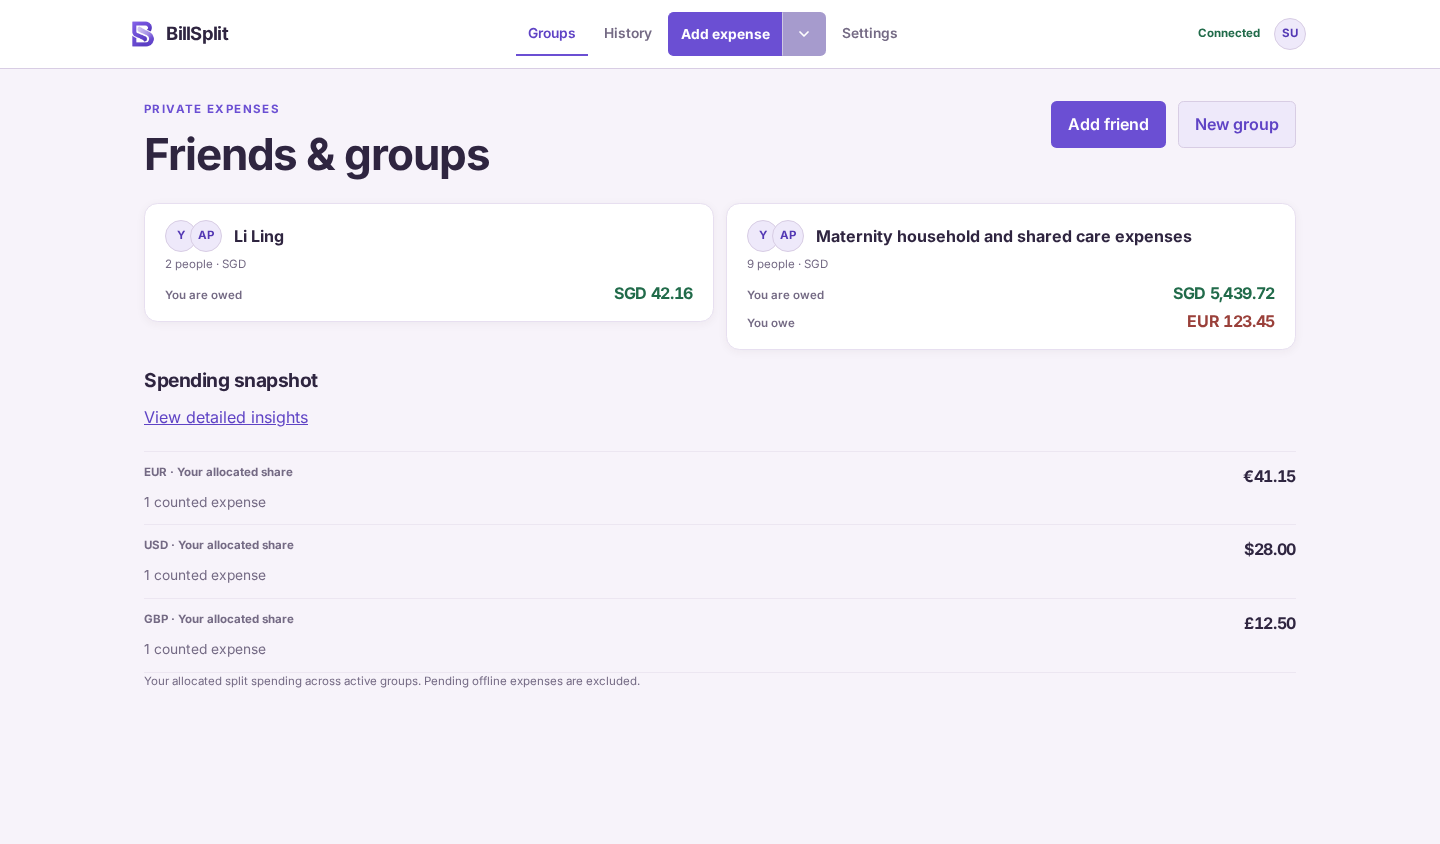
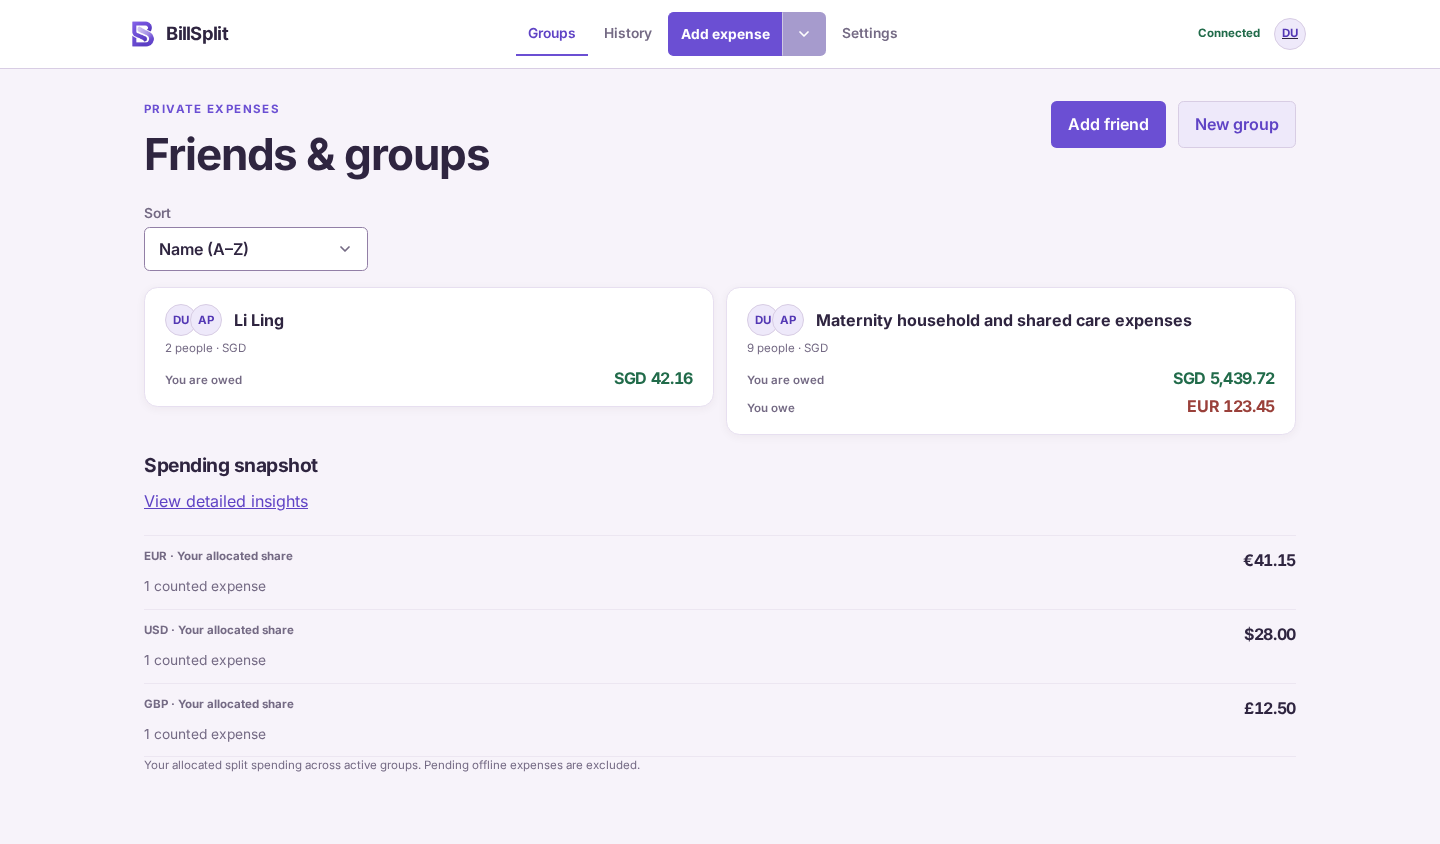
Add alphabetical and outstanding Home sorting

diff --git a/tests/e2e/home-insights-surfaces.spec.ts b/tests/e2e/home-insights-surfaces.spec.ts
@@ -1,10 +1,21 @@
-import { test, expect, newAuthenticatedContext, BASE_URL, DEV_EMAIL } from './fixtures';
+import path from 'node:path';
+import type { Page, TestInfo } from '@playwright/test';
+import { test, expect, newAuthenticatedContext, seedOfflineTrust, BASE_URL, DEV_EMAIL } from './fixtures';
+
+async function captureHome(page: Page, testInfo: TestInfo, name: string) {
+  await page.evaluate(() => document.fonts.ready);
+  const destination = process.env.UPDATE_HOME_SCREENSHOTS === '1'
+    ? path.join(process.cwd(), 'docs', 'screenshots', `${name}.png`)
+    : testInfo.outputPath(`${name}.png`);
+  await page.screenshot({ path: destination, fullPage: true, animations: 'disabled', style: '.bottom-nav { visibility: hidden !important; }' });
+  await testInfo.attach(name, { path: destination, contentType: 'image/png' });
+}
 
 const shortId = '00000000-0000-4000-8000-000000003001';
 const longId = '00000000-0000-4000-8000-000000003003';
 const insightsId = '00000000-0000-4000-8000-000000003002';
 
-test('Home cards retain compact, accessible balance geometry across the navigation boundary', async ({ browser }) => {
+test('Home cards retain compact, accessible balance geometry across the navigation boundary', async ({ browser }, testInfo) => {
   for (const width of [320, 390, 768, 895, 896, 1440]) {
     const context = await newAuthenticatedContext(browser, DEV_EMAIL, { width, height: 844 }, { serviceWorkers: 'block' });
     try {
@@ -72,9 +83,80 @@ test('Home cards retain compact, accessible balance geometry across the navigati
       expect(geometry.actions).toEqual(['/friends/new', '/groups/new']);
       expect(geometry.nav.mobile === 'none').toBe(width >= 896);
       expect(geometry.nav.desktop === 'none').toBe(width < 896);
+      const sort = page.getByRole('combobox', { name: 'Sort', exact: true });
+      await expect(sort).toHaveValue('name');
+      expect(await page.locator('.home-actions').evaluate((actions) => Boolean(actions.compareDocumentPosition(document.querySelector('.home-sort')!) & Node.DOCUMENT_POSITION_FOLLOWING))).toBe(true);
+      const device = width === 390 ? 'mobile' : width === 1440 ? 'desktop' : undefined;
+      if (device) await captureHome(page, testInfo, `home-sgd-stress-${device}`);
+      await sort.selectOption('outstanding');
+      await expect(cards.first()).toHaveAttribute('href', `/groups/${longId}`);
+      await expect(page.locator('#home-sort-help')).toBeVisible();
+      expect(await page.evaluate(() => document.documentElement.scrollWidth <= document.documentElement.clientWidth)).toBe(true);
+      if (device) await captureHome(page, testInfo, `home-outstanding-${device}`);
+      await page.reload();
+      await expect(sort).toHaveValue('outstanding');
+      await expect(cards.first()).toHaveAttribute('href', `/groups/${longId}`);
+      await page.unroute('**/api/groups');
+      await page.route('**/api/groups', (route) => route.fulfill({ status: 503, contentType: 'application/json', body: JSON.stringify({ error: 'Unavailable' }) }));
+      await page.reload();
+      await expect(sort).toHaveValue('outstanding');
+      await expect(cards.first()).toHaveAttribute('href', `/groups/${longId}`);
+      await seedOfflineTrust(page);
+      await context.setOffline(true);
+      await page.evaluate(() => window.dispatchEvent(new Event('offline')));
+      await expect(sort).toHaveValue('outstanding');
+      await expect(cards.first()).toHaveAttribute('href', `/groups/${longId}`);
+      await sort.selectOption('name');
+      await expect(cards.first()).toHaveAttribute('href', `/groups/${shortId}`);
+      await expect(page.locator('#home-sort-help')).toHaveCount(0);
     } finally {
       await context.close();
     }
+  }
+});
+
+for (const [device, width] of [['mobile', 390], ['desktop', 1440]] as const) {
+  test(`Home reference screenshots at ${device} size`, async ({ authenticatedPage: page }, testInfo) => {
+    await page.setViewportSize({ width, height: device === 'mobile' ? 844 : 900 });
+    await page.goto('/');
+    await expect(page.locator('.group-card').first()).toBeVisible();
+    await expect(page.getByRole('combobox', { name: 'Sort', exact: true })).toHaveValue('name');
+    await expect(page.locator('.skeleton')).toHaveCount(0);
+    expect(await page.evaluate(() => document.documentElement.scrollWidth <= document.documentElement.clientWidth)).toBe(true);
+    if (device === 'mobile') await expect(page.locator('.bottom-nav')).toBeVisible();
+    await captureHome(page, testInfo, `home-${device}`);
+  });
+}
+
+test('Home sort is absent during cold loading, empty and uncached error states', async ({ browser }) => {
+  for (const width of [320, 390, 768, 895, 896, 1440]) {
+    const context = await newAuthenticatedContext(browser, DEV_EMAIL, { width, height: 844 }, { serviceWorkers: 'block' });
+    try {
+      const page = await context.newPage();
+      let release!: () => void;
+      const gate = new Promise<void>((resolve) => { release = resolve; });
+      let failed = false;
+      await page.route('**/api/groups', async (route) => {
+        await gate;
+        await route.fulfill({ status: failed ? 503 : 200, contentType: 'application/json', body: JSON.stringify(failed ? { error: 'Unavailable' } : { groups: [] }) });
+      });
+      await page.goto('/');
+      await expect(page.locator('.skeleton').first()).toBeVisible();
+      await expect(page.getByRole('combobox', { name: 'Sort', exact: true })).toHaveCount(0);
+      release();
+      await expect(page.getByText('No groups yet', { exact: true })).toBeVisible();
+      await expect(page.getByRole('combobox', { name: 'Sort', exact: true })).toHaveCount(0);
+      failed = true;
+      // A fresh context avoids a verified empty cache masking the uncached error state.
+      const errorContext = await newAuthenticatedContext(browser, DEV_EMAIL, { width, height: 844 }, { serviceWorkers: 'block' });
+      try {
+        const errorPage = await errorContext.newPage();
+        await errorPage.route('**/api/groups', (route) => route.fulfill({ status: 503, contentType: 'application/json', body: JSON.stringify({ error: 'Unavailable' }) }));
+        await errorPage.goto('/');
+        await expect(errorPage.getByRole('alert').first()).toBeVisible();
+        await expect(errorPage.getByRole('combobox', { name: 'Sort', exact: true })).toHaveCount(0);
+      } finally { await errorContext.close(); }
+    } finally { await context.close(); }
   }
 });
 

diff --git a/src/app/App.tsx b/src/app/App.tsx
@@ -18,6 +18,8 @@ import { broadcastSessionCoordination, captureSessionGeneration, getSessionLogou
 import { browserTimezone, formatScheduleDate, otherTimezoneValue, previewScheduleDates, scheduleContinuationText, scheduleOverviewMetadata, scheduleSummary, timezoneLabel, timezoneOptions, timezoneSelectValue as timezoneSelectValueForState, timezoneValueFromSelection, weekdayLabels } from './scheduled-expense';
 import { categoryOptions } from './categories';
 import { sortOptionsByLabel } from './dropdown-options';
+import { sortHomeGroups, parseHomeSort } from './home-sorting';
+import { useHomeSort } from './use-home-sort';
 import { localDateForTimeZone } from '../domain/recurrence';
 import { appendUniquePage, createPageRequestScope } from './pagination';
 import { assembleCsvPages, collectPagedAccountExport, collectPagedExport, collectPagedGroupExport } from './export';
@@ -290,7 +292,8 @@ function Home() {
    const online = useOnlineStatus();
   const me = useResource(resourceKeys.identity(), '', (signal) => getMe({ signal }), RESOURCE_FRESHNESS.expenses, hydrateIdentity);
   const groupsResource = useResource<{ groups: Group[] }>(resourceKeys.groups(me.data?.id || 'pending'), me.data?.id, (signal) => getGroups(signal), RESOURCE_FRESHNESS.groups, me.data?.id ? () => hydrateGroups(me.data!.id) : undefined);
-  const groups = groupsResource.data?.groups || [];
+  const [homeSort, setHomeSort] = useHomeSort(me.data?.id);
+  const groups = sortHomeGroups(groupsResource.data?.groups || [], homeSort);
   const offline = Boolean(groupsResource.offline || me.offline);
    const [searchParams] = useSearchParams();
   const newGroupRequested = searchParams.get('new') === '1';
@@ -302,6 +305,7 @@ function Home() {
      return <Layout>
        <PageHeader className="page-title" eyebrow="Private expenses" title="Friends & groups" actions={<ActionGroup className="home-actions"><Link className="button" to="/friends/new">Add friend</Link><Link className="button button--secondary" to="/groups/new">New group</Link></ActionGroup>} />
         <PendingInvitations userId={me.data?.id} online={online && !offline} />
+        {groups.length ? <div className="home-sort"><Field label="Sort" className="field--compact"><select value={homeSort} onChange={(event) => setHomeSort(parseHomeSort(event.target.value))} aria-describedby={homeSort === 'outstanding' ? 'home-sort-help' : undefined}><option value="name">Name (A–Z)</option><option value="outstanding">Outstanding first</option></select></Field>{homeSort === 'outstanding' ? <p className="muted" id="home-sort-help">Largest absolute balance first: default currency, otherwise the first non-zero currency alphabetically. Amounts are compared without currency conversion.</p> : null}</div> : null}
        {!online || offline ? <ConnectionBanner detail="showing your last verified groups. Friend and group creation require a connection; Add Expense remains available from cached groups." /> : null}{groupsResource.data !== undefined ? <CachedIdentityNotice resource={me} id="groups-identity-error" /> : null}{groupsResource.data === undefined && me.error ? <ErrorBox error={me.error} onRetry={retryFor(resourceKeys.identity(), '')} id="identity-error" retryLabel="Retry identity check" /> : null}
         {groupsResource.data === undefined && !me.error ? <ResourceNotice resource={groupsResource} label="groups" retry={retryFor(resourceKeys.groups(me.data?.id || 'pending'), me.data?.id)} /> : groupsResource.data !== undefined ? <><ResourceNotice resource={groupsResource} label="groups" retry={retryFor(resourceKeys.groups(me.data?.id || 'pending'), me.data?.id)} />{groups.length ? <div className="cards group-cards">{groups.map((group) => { const people = [{ name: me.data?.name || '', avatarMode: me.data?.avatarMode, avatarHash: me.data?.avatarHash }, ...(group.counterpartName ? [{ name: group.counterpartName, ...group.counterpartAvatar }] : [])]; return <Link className="card group-card ui-card-surface" to={`/groups/${group.id}`} key={group.id}><div className="group-card__identity"><div className="group-card__heading"><AvatarStack people={people} /><strong className="card__name">{groupDisplayName(group)}</strong></div><span className="group-card__meta">{group.memberCount ? `${group.memberCount} ${group.memberCount === 1 ? 'person' : 'people'}` : group.kind === 'peer' ? 'Friend ledger' : 'Shared ledger'} · {group.currency}</span></div><div className="card__balances">{groupBalanceDisplays(group.balanceSummaries, group.currency).map((display, index) => display.kind === 'balance' ? <span className="card__balance" key={`${display.currency}-${index}`}><span className="card__balance-label">{display.label}</span><span className="card__balance-money"><Money amountMinor={display.amountMinor} currency={display.currency} currencyDisplay="code" tone={display.label === 'You are owed' ? 'positive' : 'debt'} /></span></span> : <span className={`card__balance card__balance--${display.kind}`} key={`${display.label}-${index}`}><span className="card__balance-label">{display.label}</span><small>{display.currency}</small></span>)}</div></Link>; })}</div> : <EmptyState title="No groups yet"><p className="empty-state__copy">Start a friend ledger for a quick one-to-one split, or create a shared group for a trip or household.</p><div className="empty-state__actions"><Link className="button" to="/friends/new">Add a friend</Link><Link className="button button--secondary" to="/groups/new">Create a group</Link></div></EmptyState>}</> : null}
        <CompactInsights userId={me.data?.id} global title="Spending snapshot" />

diff --git a/src/app/home-sorting.test.ts b/src/app/home-sorting.test.ts
@@ -1,0 +1,49 @@
+import { afterEach, describe, expect, it, vi } from 'vitest';
+import type { Group } from '../shared/types';
+import { homeSortKey, outstandingBalance, parseHomeSort, readHomeSort, sortHomeGroups, writeHomeSort } from './home-sorting';
+
+const group = (id: string, overrides: Partial<Group> = {}): Group => ({ id, name: id, currency: 'USD', createdAt: '', updatedAt: '', ...overrides });
+afterEach(() => vi.unstubAllGlobals());
+
+describe('Home sorting', () => {
+  it('uses display names, numeric case-insensitive ordering and deterministic IDs without mutation', () => {
+    const source = Object.freeze([group('z', { name: 'room 10' }), group('b', { name: 'ROOM 2' }), group('a', { name: 'Room 2' }), group('peer', { kind: 'peer', counterpartName: 'Alex' })]);
+    expect(sortHomeGroups(source, 'name').map((value) => value.id)).toEqual(['peer', 'a', 'b', 'z']);
+    expect(source.map((value) => value.id)).toEqual(['z', 'b', 'a', 'peer']);
+  });
+
+  it('prefers non-zero default, then alphabetic non-zero fallback across all summaries', () => {
+    const balances = Object.freeze([{ currency: 'USD', netMinor: 0 }, { currency: 'SGD', netMinor: 900 }, { currency: 'HKD', netMinor: 400 }, { currency: 'EUR', netMinor: -200 }]);
+    const candidate = group('a', { balanceSummaries: balances as unknown as Group['balanceSummaries'] });
+    expect(outstandingBalance(candidate)).toEqual({ currency: 'EUR', netMinor: -200 });
+    expect(outstandingBalance({ ...candidate, currency: 'SGD' })).toEqual({ currency: 'SGD', netMinor: 900 });
+    expect(outstandingBalance(group('empty', { balanceSummaries: [] }))).toBeUndefined();
+    expect(outstandingBalance(group('unknown'))).toBeUndefined();
+    expect(outstandingBalance(group('zero', { balanceSummaries: [{ currency: 'USD', netMinor: 0 }] }))).toBeUndefined();
+    expect(balances.map((value) => value.currency)).toEqual(['USD', 'SGD', 'HKD', 'EUR']);
+  });
+
+  it('ranks absolute minor amounts directly across currencies, unknown before settled, with name/id ties', () => {
+    const source = [group('settled', { balanceSummaries: [] }), group('unknown'), group('b', { name: 'Same', balanceSummaries: [{ currency: 'USD', netMinor: 200 }] }), group('a', { name: 'same', currency: 'INR', balanceSummaries: [{ currency: 'INR', netMinor: -200 }] }), group('large', { currency: 'EUR', balanceSummaries: [{ currency: 'EUR', netMinor: -300 }] }), group('zero', { balanceSummaries: [{ currency: 'USD', netMinor: 0 }] })];
+    const before = JSON.stringify(source);
+    expect(sortHomeGroups(source, 'outstanding').map((value) => value.id)).toEqual(['large', 'a', 'b', 'unknown', 'settled', 'zero']);
+    expect(JSON.stringify(source)).toBe(before);
+  });
+
+  it('defaults invalid or unavailable storage and scopes persistence to the internal account ID', () => {
+    const values = new Map<string, string>();
+    vi.stubGlobal('localStorage', { getItem: (key: string) => values.get(key), setItem: (key: string, value: string) => values.set(key, value) });
+    expect(readHomeSort('a')).toBe('name');
+    values.set(homeSortKey('a'), 'invalid');
+    expect(readHomeSort('a')).toBe('name');
+    writeHomeSort('a', 'outstanding');
+    expect(readHomeSort('a')).toBe('outstanding');
+    expect(readHomeSort('b')).toBe('name');
+    expect(parseHomeSort(null)).toBe('name');
+    vi.stubGlobal('localStorage', { getItem() { throw Error('blocked'); }, setItem() { throw Error('quota'); } });
+    expect(readHomeSort('a')).toBe('name');
+    expect(() => writeHomeSort('a', 'outstanding')).not.toThrow();
+    vi.stubGlobal('localStorage', undefined);
+    expect(readHomeSort('a')).toBe('name');
+  });
+});

diff --git a/src/app/home-sorting.ts b/src/app/home-sorting.ts
@@ -1,0 +1,37 @@
+import type { Group } from '../shared/types';
+import { groupDisplayName } from './group-display';
+import { sortOptionsByLabel } from './dropdown-options';
+
+export type HomeSort = 'name' | 'outstanding';
+export const homeSortKey = (userId: string) => `billsplit:home-sort:${userId}`;
+export const parseHomeSort = (value: unknown): HomeSort => value === 'outstanding' ? 'outstanding' : 'name';
+
+export function readHomeSort(userId: string): HomeSort {
+  try { return parseHomeSort(localStorage.getItem(homeSortKey(userId))); }
+  catch { return 'name'; }
+}
+
+export function writeHomeSort(userId: string, mode: HomeSort): void {
+  try { localStorage.setItem(homeSortKey(userId), mode); }
+  catch { /* The current in-memory selection remains usable. */ }
+}
+
+export function outstandingBalance(group: Group) {
+  const nonzero = group.balanceSummaries?.filter((balance) => balance.netMinor !== 0) || [];
+  return nonzero.find((balance) => balance.currency === group.currency)
+    || [...nonzero].sort((a, b) => a.currency < b.currency ? -1 : a.currency > b.currency ? 1 : 0)[0];
+}
+
+export function sortHomeGroups(groups: readonly Group[], mode: HomeSort): Group[] {
+  const named = sortOptionsByLabel(groups, groupDisplayName, (group) => group.id);
+  if (mode === 'name') return named;
+  const rank = (group: Group) => {
+    const balance = outstandingBalance(group);
+    return balance ? { state: 0, amount: Math.abs(balance.netMinor) }
+      : { state: group.balanceSummaries === undefined ? 1 : 2, amount: 0 };
+  };
+  return named.sort((a, b) => {
+    const left = rank(a); const right = rank(b);
+    return left.state - right.state || right.amount - left.amount;
+  });
+}

diff --git a/src/app/use-home-sort.test.ts b/src/app/use-home-sort.test.ts
@@ -1,0 +1,23 @@
+import { createElement } from 'react';
+import { act, create } from 'react-test-renderer';
+import { afterEach, expect, it, vi } from 'vitest';
+import { useHomeSort } from './use-home-sort';
+import type { HomeSort } from './home-sorting';
+
+afterEach(() => vi.unstubAllGlobals());
+
+it('keeps selections usable when storage throws and never leaks across account switches', () => {
+  vi.stubGlobal('localStorage', { getItem() { throw Error('blocked'); }, setItem() { throw Error('blocked'); } });
+  let current: [HomeSort, (mode: HomeSort) => void];
+  function Probe({ userId }: { userId?: string }) { current = useHomeSort(userId); return createElement('span', null, current[0]); }
+  const view = create(createElement(Probe, { userId: 'a' }));
+  act(() => current[1]('outstanding'));
+  expect(current![0]).toBe('outstanding');
+  act(() => view.update(createElement(Probe, { userId: 'b' })));
+  expect(current![0]).toBe('name');
+  act(() => view.update(createElement(Probe, {})));
+  expect(current![0]).toBe('name');
+  act(() => view.update(createElement(Probe, { userId: 'a' })));
+  expect(current![0]).toBe('outstanding');
+  view.unmount();
+});

diff --git a/src/app/use-home-sort.ts b/src/app/use-home-sort.ts
@@ -1,0 +1,15 @@
+import { useRef, useState } from 'react';
+import { readHomeSort, writeHomeSort, type HomeSort } from './home-sorting';
+
+export function useHomeSort(userId: string | undefined): [HomeSort, (mode: HomeSort) => void] {
+  const preferences = useRef(new Map<string, HomeSort>());
+  const [, render] = useState(0);
+  if (userId && !preferences.current.has(userId)) preferences.current.set(userId, readHomeSort(userId));
+  const mode = userId ? preferences.current.get(userId)! : 'name';
+  return [mode, (next) => {
+    if (!userId) return;
+    preferences.current.set(userId, next);
+    writeHomeSort(userId, next);
+    render((value) => value + 1);
+  }];
+}

diff --git a/src/app/theme/home-creation.css b/src/app/theme/home-creation.css
@@ -1,3 +1,16 @@
+.home-sort {
+  margin-bottom: var(--space-4);
+}
+
+.home-sort .field {
+  max-width: 14rem;
+}
+
+.home-sort p {
+  max-width: 42rem;
+  margin-top: var(--space-2);
+}
+
 .public-sign-in {
   display: inline-flex;
   min-height: var(--control-min-height);

diff --git a/docs/responsive-audit-matrix.md b/docs/responsive-audit-matrix.md
@@ -1,5 +1,41 @@
 # Warm Ledger responsive audit matrix
 
+## Home sorting
+
+Focused coverage: `tests/e2e/home-insights-surfaces.spec.ts`, at **320, 390,
+768, 895, 896, 1440px**. Primary Add friend / New group actions precede the
+labelled native Sort control, which precedes the combined friend/group cards.
+
+| State | Checks at all six widths |
+| --- | --- |
+| Name (A–Z), default | Compact labelled control, numeric case-insensitive display-name order, existing balance/card geometry and navigation boundary; no contextual help |
+| Outstanding first | Reordered cards, visible default/fallback and no-conversion help, no horizontal overflow |
+| Reload / cached refresh failure | Per-account local preference retained; cached cards remain sortable after failed group refresh |
+| Offline, already loaded | Both modes usable without a network request; name mode hides help |
+| Cold loading | Existing skeleton, no sort control before cards exist |
+| Empty / uncached error | Existing empty/error notices, no irrelevant sort control |
+
+Pure helper and hook tests cover all summaries (not display-truncated), default
+currency zero fallback, absent/empty/zero summaries, absolute positive/negative
+minor amounts across currencies without FX, unknown before settled, name/ID
+ties, immutability, invalid/unavailable/throwing storage and account switches.
+
+Reference captures: `docs/screenshots/home-{mobile,desktop}.png`,
+`home-sgd-stress-{mobile,desktop}.png`, and `home-outstanding-{mobile,desktop}.png`.
+Captures await fonts and disable animations; mobile bottom navigation is hidden
+only for full-page capture after live layout/navigation checks. Regenerate with:
+
+```sh
+UPDATE_HOME_SCREENSHOTS=1 PLAYWRIGHT_BROWSERS_PATH=/ms-playwright BILLSPLIT_E2E_PORT=8798 BILLSPLIT_E2E_PERSIST_DIR=/tmp/bill-split-playwright-home-sorting npm run test:e2e:local -- tests/e2e/home-insights-surfaces.spec.ts --project=chromium --workers=1
+```
+
+Verification: `npm run test:unit -- --maxWorkers=2` passed (65 files, 946 tests);
+`npm run build` passed with the existing large-chunk warning. An independent
+focused Chromium rerun passed all eight tests despite a runtime broken-pipe
+warning. Reviewer approved with no findings. Mobile outstanding and desktop name
+captures were visually inspected. Full integration and full responsive audits
+were not run.
+
 ## Refund recipient defaults and allocation editing
 
 ### Receipt, benefit and settlement clarity follow-up
